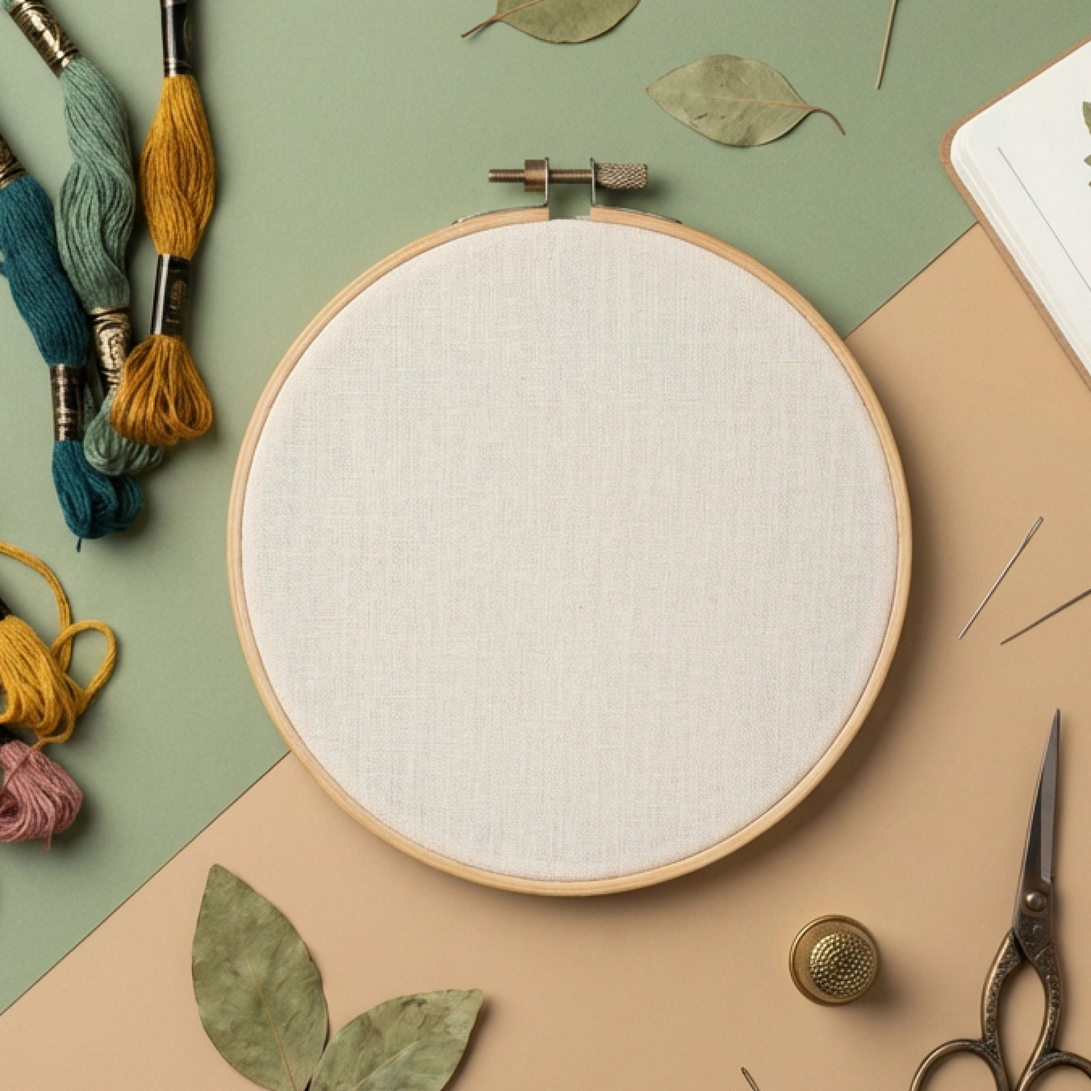
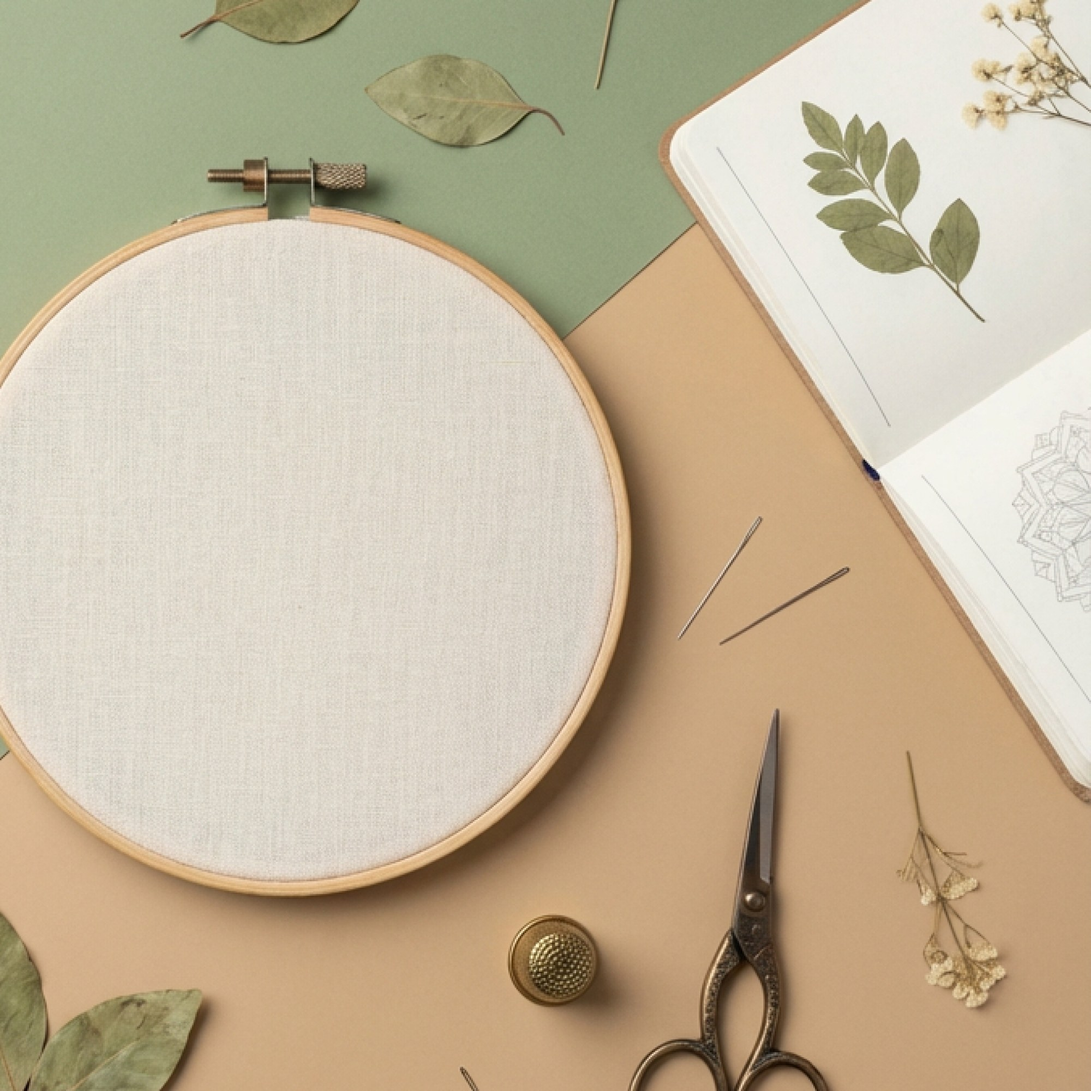
fix(etsy-listing-kit): true centering on measured circles, visible watermark, distinct sewn scene
- Re-measured every scene's fabric circle on a 100px grid — the old
  eyeballed spots sat designs up to ~60px off-center (visible on the
  linen scene with real uploads).
- Watermark: dual-tone (white + dark shadow copy) at 16-18% opacity,
  denser tiling — the old 7% black vanished into photo texture and
  previews were easily grabbed.
- Sewn scene base swapped Blocks C → Blocks L (sage sketchbook, hoop
  offset left): Blocks C is the same photo as the long-standing framed
  scene, so the pack shipped two identical backgrounds.

diff --git a/lib/etsy-listing-kit/generator.ts b/lib/etsy-listing-kit/generator.ts
@@ -50,12 +50,17 @@ async function toEtsyJpeg(pipeline: sharp.Sharp): Promise<Buffer> {
   return pipeline.jpeg({ quality: 60 }).toBuffer();
 }
 
-// ── watermark overlay (diagonal tiled PREVIEW text, low opacity) ─────────────
+// ── watermark overlay (diagonal tiled PREVIEW text) ──────────────────────────
+// Dual-tone (white + dark shadow copy) so it reads on light fabric AND dark
+// props; opacity tuned to clearly deter grabbing the preview (Katy,
+// 2026-07-31: the old 7% black vanished into photo texture) while the design
+// underneath stays judgeable.
 function watermarkSvg() {
   const rows: string[] = [];
-  for (let y = 0; y < S + 400; y += 260) {
-    for (let x = -200; x < S; x += 620) {
-      rows.push(`<text x="${x}" y="${y}" font-family="Inter, sans-serif" font-size="34" font-weight="600" fill="#000" fill-opacity="0.07" transform="rotate(-30 ${x} ${y})">PREVIEW · ETSY LISTING KIT</text>`);
+  for (let y = 0; y < S + 400; y += 230) {
+    for (let x = -200; x < S; x += 580) {
+      rows.push(`<text x="${x + 2}" y="${y + 2}" font-family="Inter, sans-serif" font-size="38" font-weight="600" fill="#000" fill-opacity="0.16" transform="rotate(-30 ${x + 2} ${y + 2})">PREVIEW · ETSY LISTING KIT</text>`);
+      rows.push(`<text x="${x}" y="${y}" font-family="Inter, sans-serif" font-size="38" font-weight="600" fill="#fff" fill-opacity="0.18" transform="rotate(-30 ${x} ${y})">PREVIEW · ETSY LISTING KIT</text>`);
     }
   }
   return svg(`<svg width="${S}" height="${S}" xmlns="http://www.w3.org/2000/svg">${rows.join('')}</svg>`);
@@ -189,22 +194,29 @@ async function sewnPhoto(design: Buffer, template: string, spot: Spot) {
   );
 }
 
+// Fabric-circle geometry re-measured 2026-07-31 on a 100px grid — the old
+// eyeballed spots sat the design visibly off-center once sizing was unified.
 /** Hoop on natural linen with pastel floss (W&H "Linen" style). */
-const flat = (d: Buffer) => hoopPhoto(d, 'hoop-linen.jpg', { cx: 995, cy: 906, r: 585 });
-/** Styled flat-lay hoop with floss/props (W&H "Photograph" template). */
-const framed = (d: Buffer) => hoopPhoto(d, 'hoop-alt.jpg', { cx: 1020, cy: 1010, r: 540 });
+const flat = (d: Buffer) => hoopPhoto(d, 'hoop-linen.jpg', { cx: 1045, cy: 930, r: 600 });
+/** Styled sage flat-lay hoop with leaves/props (W&H "Blocks C" style). */
+const framed = (d: Buffer) => hoopPhoto(d, 'hoop-alt.jpg', { cx: 1055, cy: 1005, r: 595 });
 /** Clean studio hoop (W&H "Plain Hoop" template). */
-const inHoop = (d: Buffer) => hoopPhoto(d, 'hoop-basic.jpg', { cx: 985, cy: 1030, r: 665 });
+const inHoop = (d: Buffer) => hoopPhoto(d, 'hoop-basic.jpg', { cx: 1005, cy: 1025, r: 700 });
 /** Hoop on terracotta linen with walnut ring (W&H "Terra Cotta" style). */
-const scale = (d: Buffer) => hoopPhoto(d, 'hoop-terra.jpg', { cx: 1005, cy: 1000, r: 500 });
+const scale = (d: Buffer) => hoopPhoto(d, 'hoop-terra.jpg', { cx: 990, cy: 990, r: 505 });
 /**
  * Light sage scene with mustard/teal floss (W&H Alt "Blocks R", hoop offset
  * right). NEW per #335 — replaced the dark Mustard base (Katy, 2026-07-31:
  * dark line art vanished on dark fabric; lighter ground avoids inversions).
  */
 const floss = (d: Buffer) => hoopPhoto(d, 'hoop-floss.jpg', { cx: 1560, cy: 1010, r: 600 });
-/** Sage botanical scene (W&H Alt "Blocks C") with the fully-sewn render. NEW per #335. */
-const sewn = (d: Buffer) => sewnPhoto(d, 'hoop-sage.jpg', { cx: 1048, cy: 1005, r: 575 });
+/**
+ * Sage sketchbook scene (W&H Alt "Blocks L", hoop offset left) with the
+ * fully-sewn render. NEW per #335. Blocks C was the original pick but it is
+ * the same photo as the long-standing framed scene — swapped to keep all six
+ * scenes distinct.
+ */
+const sewn = (d: Buffer) => sewnPhoto(d, 'hoop-sage.jpg', { cx: 525, cy: 995, r: 570 });
 
 const COMPOSERS: { id: PackItemId; label: string; fn: (d: Buffer) => Promise<Buffer> }[] = [
   { id: 'flat', label: 'Hoop on linen', fn: flat },

diff --git a/tests/etsy-listing-kit/generator.test.ts b/tests/etsy-listing-kit/generator.test.ts
@@ -44,7 +44,7 @@ describe('generatePack', () => {
     // compare against the untouched template at the same coordinates.
     const cases: { id: string; template: string; cx: number; cy: number }[] = [
       { id: 'floss', template: 'hoop-floss.jpg', cx: 1560, cy: 1010 },
-      { id: 'sewn', template: 'hoop-sage.jpg', cx: 1048, cy: 1005 },
+      { id: 'sewn', template: 'hoop-sage.jpg', cx: 525, cy: 995 },
     ];
     // Raw pixel read — sharp's stats() ignores a preceding extract(), so
     // sample the decoded buffer directly.
@@ -73,11 +73,11 @@ describe('generatePack', () => {
       const i = (cy * info.width + cx) * info.channels;
       return [data[i], data[i + 1], data[i + 2]];
     };
-    // Sewn scene: fabric circle (1048, 1005, r=575). Sample in the 15% buffer
+    // Sewn scene: fabric circle (525, 995, r=570). Sample in the 15% buffer
     // zone on the diagonal — inside the upload's white rectangle but outside
     // its ink. Must match the untouched template: no shadow box, no hatch box.
-    const d = Math.round((0.85 * 575) / Math.SQRT2); // ≈346
-    const [x, y] = [1048 + d, 1005 - d];
+    const d = Math.round((0.85 * 570) / Math.SQRT2); // ≈343
+    const [x, y] = [525 + d, 995 - d];
     const [r1, g1, b1] = await sample(sewn.clean, x, y);
     const [r0, g0, b0] = await sample(path.join(process.cwd(), 'assets', 'mockups', 'hoop-sage.jpg'), x, y);
     expect(Math.abs(r1 - r0) + Math.abs(g1 - g0) + Math.abs(b1 - b0)).toBeLessThan(20);
